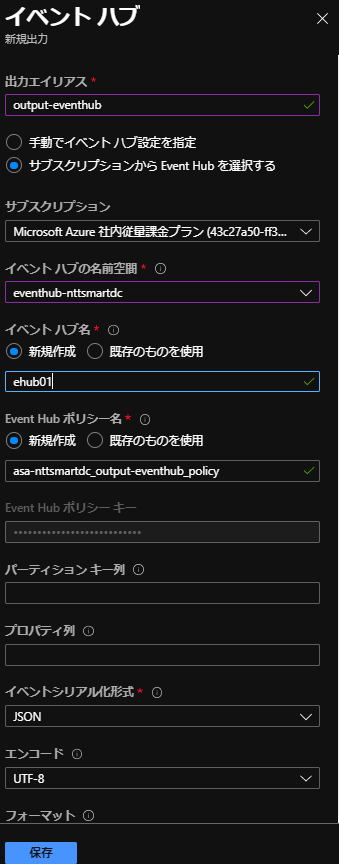
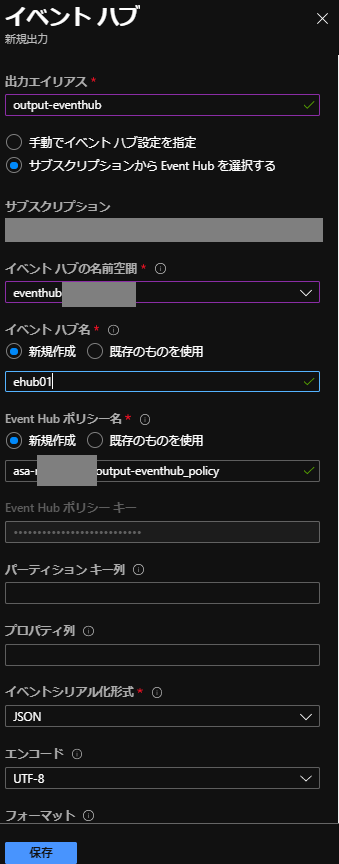
update README.md and images

Changed region(s): [[0.0, 0.25, 0.9735, 0.2812], [0.177, 0.3125, 0.413, 0.375], [0.0885, 0.5, 0.295, 0.5625]]

diff --git a/README.md b/README.md
@@ -69,7 +69,7 @@
         "IoTHub": {
             "MessageId": null,
             "CorrelationId": null,
-            "ConnectionDeviceId": "bacnetgw-nttdc",
+            "ConnectionDeviceId": "bacnetgw-xxx",
             "ConnectionDeviceGenerationId": "637321770918468852",
             "EnqueuedTime": "2020-08-04T23:09:52.0000000"
         }
@@ -111,9 +111,9 @@
 
 16. Start Job/Confirm OutPut in Blob/Stop Job
     ```
-    {"command":"Write","system_id":"MSSGT30Fbacnet","device_id":"TestBACnetBridge","arrayindex":0,"timestamp":"2020-08-04T23:26:50.4820000Z","bacnetdevicenumber":100,"bo_base":"BACnetObjectIdentifier","objecttype":0,"instanceno":1,"sf_base":"BACnetStatusFlags","sf_value":[0,0,0,0],"value":25.7406368255615,"EventProcessedUtcTime":"2020-08-04T23:28:37.9514018Z","PartitionId":0,"EventEnqueuedUtcTime":"2020-08-04T23:27:20.6200000Z","IoTHub":{"MessageId":null,"CorrelationId":null,"ConnectionDeviceId":"bacnetgw-nttdc","ConnectionDeviceGenerationId":"637321770918468852","EnqueuedTime":"2020-08-04T23:27:20.0000000"}}
-    {"command":"Write","system_id":"MSSGT30Fbacnet","device_id":"TestBACnetBridge","arrayindex":1,"timestamp":"2020-08-04T23:26:50.4980000Z","bacnetdevicenumber":100,"bo_base":"BACnetObjectIdentifier","objecttype":0,"instanceno":2,"sf_base":"BACnetStatusFlags","sf_value":[0,0,0,0],"value":19.261812210083,"EventProcessedUtcTime":"2020-08-04T23:28:37.9514018Z","PartitionId":0,"EventEnqueuedUtcTime":"2020-08-04T23:27:20.6200000Z","IoTHub":{"MessageId":null,"CorrelationId":null,"ConnectionDeviceId":"bacnetgw-nttdc","ConnectionDeviceGenerationId":"637321770918468852","EnqueuedTime":"2020-08-04T23:27:20.0000000"}}
-    {"command":"Write","system_id":"MSSGT30Fbacnet","device_id":"TestBACnetBridge","arrayindex":2,"timestamp":"2020-08-04T23:26:50.5030000Z","bacnetdevicenumber":100,"bo_base":"BACnetObjectIdentifier","objecttype":0,"instanceno":3,"sf_base":"BACnetStatusFlags","sf_value":[0,0,0,0],"value":16.0978870391846,"EventProcessedUtcTime":"2020-08-04T23:28:37.9514018Z","PartitionId":0,"EventEnqueuedUtcTime":"2020-08-04T23:27:20.6200000Z","IoTHub":{"MessageId":null,"CorrelationId":null,"ConnectionDeviceId":"bacnetgw-nttdc","ConnectionDeviceGenerationId":"637321770918468852","EnqueuedTime":"2020-08-04T23:27:20.0000000"}}
+    {"command":"Write","system_id":"MSSGT30Fbacnet","device_id":"TestBACnetBridge","arrayindex":0,"timestamp":"2020-08-04T23:26:50.4820000Z","bacnetdevicenumber":100,"bo_base":"BACnetObjectIdentifier","objecttype":0,"instanceno":1,"sf_base":"BACnetStatusFlags","sf_value":[0,0,0,0],"value":25.7406368255615,"EventProcessedUtcTime":"2020-08-04T23:28:37.9514018Z","PartitionId":0,"EventEnqueuedUtcTime":"2020-08-04T23:27:20.6200000Z","IoTHub":{"MessageId":null,"CorrelationId":null,"ConnectionDeviceId":"bacnetgw-xxx","ConnectionDeviceGenerationId":"637321770918468852","EnqueuedTime":"2020-08-04T23:27:20.0000000"}}
+    {"command":"Write","system_id":"MSSGT30Fbacnet","device_id":"TestBACnetBridge","arrayindex":1,"timestamp":"2020-08-04T23:26:50.4980000Z","bacnetdevicenumber":100,"bo_base":"BACnetObjectIdentifier","objecttype":0,"instanceno":2,"sf_base":"BACnetStatusFlags","sf_value":[0,0,0,0],"value":19.261812210083,"EventProcessedUtcTime":"2020-08-04T23:28:37.9514018Z","PartitionId":0,"EventEnqueuedUtcTime":"2020-08-04T23:27:20.6200000Z","IoTHub":{"MessageId":null,"CorrelationId":null,"ConnectionDeviceId":"bacnetgw-xxx","ConnectionDeviceGenerationId":"637321770918468852","EnqueuedTime":"2020-08-04T23:27:20.0000000"}}
+    {"command":"Write","system_id":"MSSGT30Fbacnet","device_id":"TestBACnetBridge","arrayindex":2,"timestamp":"2020-08-04T23:26:50.5030000Z","bacnetdevicenumber":100,"bo_base":"BACnetObjectIdentifier","objecttype":0,"instanceno":3,"sf_base":"BACnetStatusFlags","sf_value":[0,0,0,0],"value":16.0978870391846,"EventProcessedUtcTime":"2020-08-04T23:28:37.9514018Z","PartitionId":0,"EventEnqueuedUtcTime":"2020-08-04T23:27:20.6200000Z","IoTHub":{"MessageId":null,"CorrelationId":null,"ConnectionDeviceId":"bacnetgw-xxx","ConnectionDeviceGenerationId":"637321770918468852","EnqueuedTime":"2020-08-04T23:27:20.0000000"}}
     .....
     ```
 17. Create EventHub
